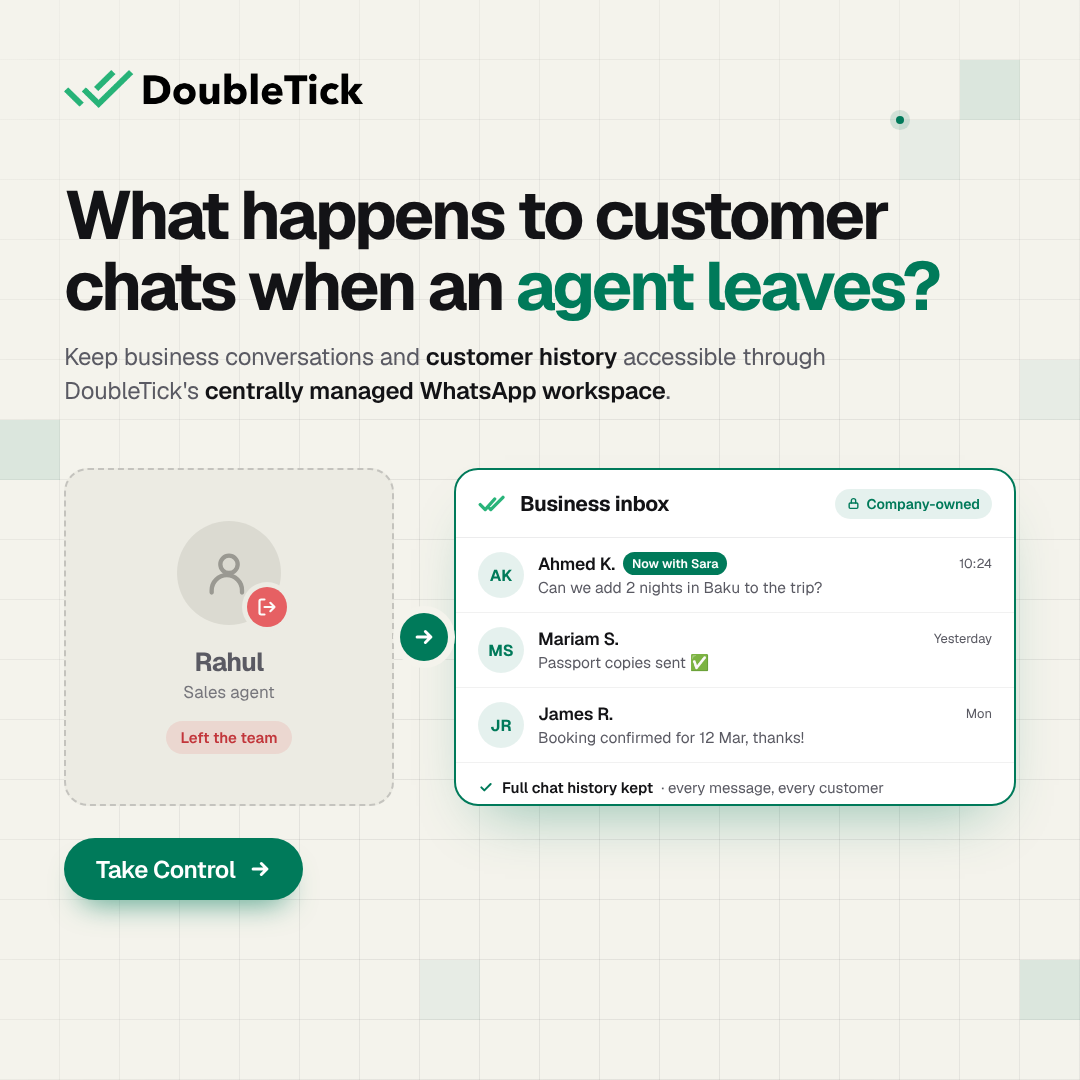
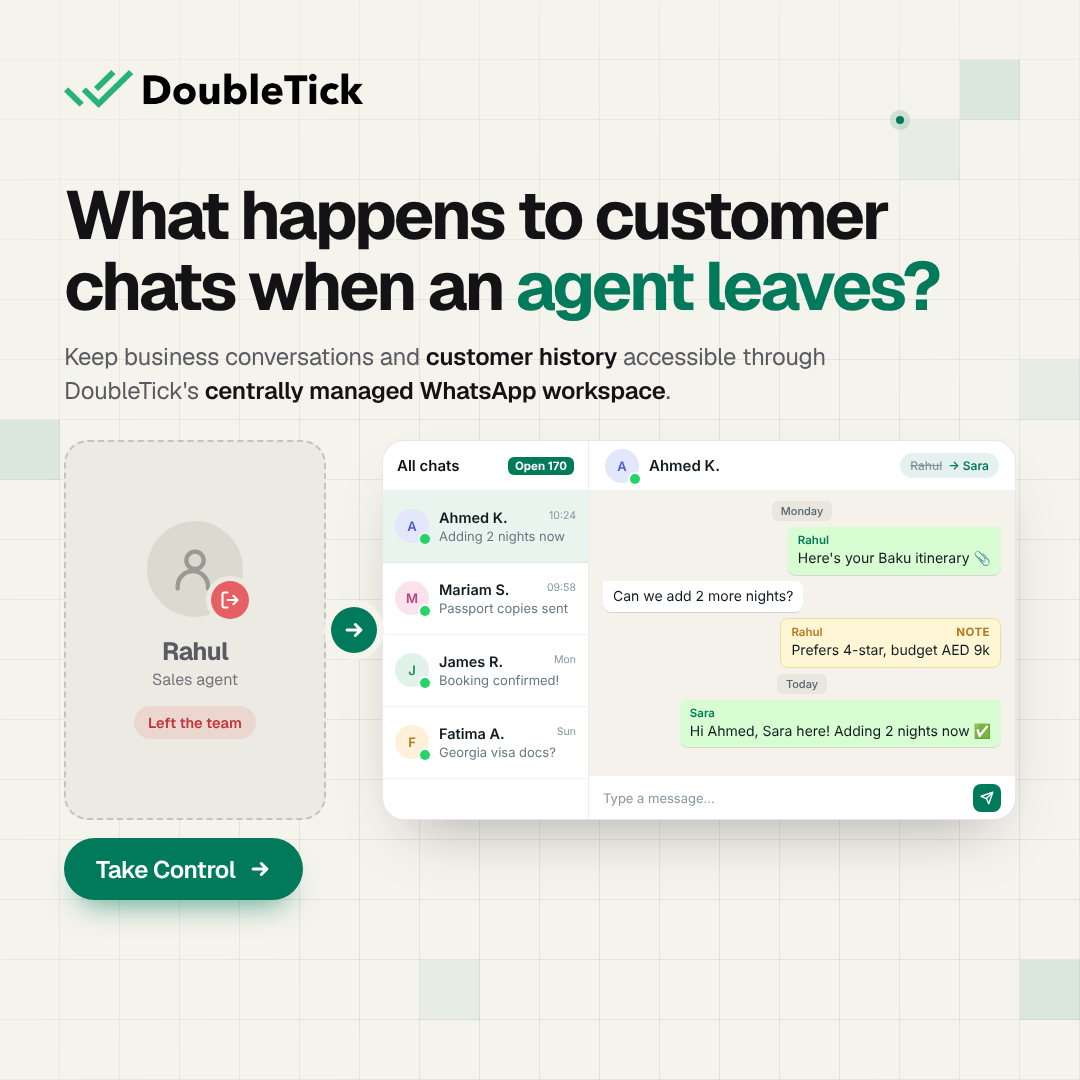
feat: simplified DoubleTick inbox UI in agent-leaves ad
Claude-Session: https://claude.ai/code/session_01U68wzeZAut9FRgfZMxNXRM

Changed region(s): [[0.3056, 0.3972, 0.9472, 0.7944], [0.1528, 0.5194, 0.275, 0.7028]]

diff --git a/ads/doubletick-agent-leaves/index.html b/ads/doubletick-agent-leaves/index.html
@@ -47,31 +47,48 @@
   .sub b { color: var(--ink); font-weight: 600; }
 
   /* ---------- departing agent ---------- */
-  .agent { position: absolute; left: 64px; top: 468px; width: 330px; height: 338px; border-radius: 24px; background: #ECEBE3; border: 2px dashed rgba(19,19,22,0.18); display: flex; flex-direction: column; align-items: center; justify-content: center; text-align: center; }
-  .avatar { position: relative; width: 104px; height: 104px; border-radius: 50%; background: #D9D8CF; display: grid; place-items: center; opacity: 0.85; }
-  .exit { position: absolute; right: -6px; bottom: -2px; width: 40px; height: 40px; border-radius: 50%; background: #E5484D; display: grid; place-items: center; box-shadow: 0 0 0 5px #ECEBE3; }
-  .agent .nm { margin-top: 20px; font-weight: 700; font-size: 26px; letter-spacing: -0.03em; color: var(--ink-2); }
-  .agent .role { margin-top: 2px; font-size: 17px; color: var(--ink-2); opacity: 0.8; }
-  .left-chip { margin-top: 18px; font-size: 15px; font-weight: 600; color: #C2363B; background: rgba(229,72,77,0.12); padding: 7px 14px; border-radius: 999px; }
+  .agent { position: absolute; left: 64px; top: 440px; width: 262px; height: 380px; border-radius: 24px; background: #ECEBE3; border: 2px dashed rgba(19,19,22,0.18); display: flex; flex-direction: column; align-items: center; justify-content: center; text-align: center; }
+  .avatar { position: relative; width: 96px; height: 96px; border-radius: 50%; background: #D9D8CF; display: grid; place-items: center; opacity: 0.85; }
+  .exit { position: absolute; right: -6px; bottom: -2px; width: 38px; height: 38px; border-radius: 50%; background: #E5484D; display: grid; place-items: center; box-shadow: 0 0 0 5px #ECEBE3; }
+  .agent .nm { margin-top: 18px; font-weight: 700; font-size: 25px; letter-spacing: -0.03em; color: var(--ink-2); }
+  .agent .role { margin-top: 2px; font-size: 16px; color: var(--ink-2); opacity: 0.8; }
+  .left-chip { margin-top: 16px; font-size: 14.5px; font-weight: 600; color: #C2363B; background: rgba(229,72,77,0.12); padding: 7px 14px; border-radius: 999px; }
 
   /* ---------- arrow ---------- */
-  .arrow { position: absolute; left: 400px; top: 613px; width: 48px; height: 48px; border-radius: 50%; background: var(--green); display: grid; place-items: center; box-shadow: 0 0 0 7px var(--bg); z-index: 2; }
+  .arrow { position: absolute; left: 331px; top: 607px; width: 46px; height: 46px; border-radius: 50%; background: var(--green); display: grid; place-items: center; box-shadow: 0 0 0 7px var(--bg); z-index: 2; }
 
-  /* ---------- business inbox ---------- */
-  .inbox { position: absolute; left: 454px; top: 468px; width: 562px; height: 338px; border-radius: 24px; background: var(--card); border: 2px solid var(--green); overflow: hidden; box-shadow: 0 30px 60px -30px rgba(0,122,90,0.45); }
-  .inbox-head { display: flex; align-items: center; gap: 12px; height: 68px; padding: 0 22px; border-bottom: 1px solid rgba(19,19,22,0.08); }
-  .inbox-head .ttl { font-weight: 700; font-size: 21px; letter-spacing: -0.02em; }
-  .owned { margin-left: auto; display: flex; align-items: center; gap: 6px; font-size: 14px; font-weight: 600; color: var(--green); background: var(--green-tint); padding: 6px 12px; border-radius: 999px; }
-  .chat-row { display: flex; align-items: center; gap: 14px; padding: 14px 22px; border-bottom: 1px solid rgba(19,19,22,0.06); }
-  .ini { flex: none; width: 46px; height: 46px; border-radius: 50%; display: grid; place-items: center; font-weight: 700; font-size: 16px; color: var(--green); background: var(--green-tint); }
-  .cr-body { flex: 1; min-width: 0; }
-  .cr-top { display: flex; align-items: center; gap: 8px; }
-  .cr-top .n { font-weight: 600; font-size: 17.5px; letter-spacing: -0.01em; }
-  .cr-top .tm { margin-left: auto; font-size: 13px; color: var(--ink-2); }
-  .cr-msg { margin-top: 2px; font-size: 15.5px; color: var(--ink-2); white-space: nowrap; overflow: hidden; text-overflow: ellipsis; }
-  .with { font-size: 12.5px; font-weight: 600; color: #fff; background: var(--green); padding: 3px 9px; border-radius: 999px; }
-  .inbox-foot { display: flex; align-items: center; gap: 8px; padding: 0 22px; height: 48px; font-size: 15px; color: var(--ink-2); }
-  .inbox-foot b { color: var(--ink); font-weight: 600; }
+  /* ---------- DoubleTick inbox (simplified) ---------- */
+  .inbox { position: absolute; left: 382px; top: 440px; width: 634px; height: 380px; border-radius: 22px; background: var(--card); border: 1.5px solid rgba(19,19,22,0.10); overflow: hidden; display: flex; box-shadow: 0 30px 60px -30px rgba(19,19,22,0.35); font-family: "Inter", "Segoe UI", Helvetica, Arial, sans-serif; }
+  .list { width: 206px; flex: none; border-right: 1px solid rgba(19,19,22,0.08); }
+  .list-head { height: 50px; display: flex; align-items: center; justify-content: space-between; padding: 0 14px; font-weight: 600; font-size: 15px; border-bottom: 1px solid rgba(19,19,22,0.07); }
+  .count { font-size: 11.5px; font-weight: 700; color: #fff; background: var(--green); padding: 2px 7px; border-radius: 6px; }
+  .row { display: flex; gap: 10px; padding: 18px 12px; border-bottom: 1px solid rgba(19,19,22,0.05); }
+  .row.on { background: #EAF4EF; }
+  .av { position: relative; flex: none; width: 34px; height: 34px; border-radius: 50%; display: grid; place-items: center; font-weight: 600; font-size: 13px; }
+  .av::after { content: ""; position: absolute; right: -1px; bottom: -1px; width: 10px; height: 10px; border-radius: 50%; background: #25D366; box-shadow: 0 0 0 2px #fff; }
+  .row.on .av::after { box-shadow: 0 0 0 2px #EAF4EF; }
+  .a1 { background: #E3E7FB; color: #4F5BD5; } .a2 { background: #FBE3EE; color: #C2407A; } .a3 { background: #E0F2E9; color: #1E8A5A; } .a4 { background: #FFF0D9; color: #B7791F; }
+  .rb { min-width: 0; flex: 1; }
+  .rt { display: flex; justify-content: space-between; font-size: 14.5px; font-weight: 600; color: #111B21; }
+  .rt span:last-child { font-size: 10.5px; font-weight: 400; color: #8696A0; }
+  .rm { margin-top: 2px; font-size: 13px; color: #667781; white-space: nowrap; overflow: hidden; text-overflow: ellipsis; }
+
+  .conv { flex: 1; display: flex; flex-direction: column; min-width: 0; }
+  .conv-head { height: 50px; flex: none; display: flex; align-items: center; gap: 10px; padding: 0 16px; border-bottom: 1px solid rgba(19,19,22,0.07); }
+  .conv-head .n { font-weight: 600; font-size: 15px; color: #111B21; }
+  .assign { margin-left: auto; display: flex; align-items: center; gap: 6px; font-size: 12px; font-weight: 600; color: var(--green); background: var(--green-tint); padding: 5px 10px; border-radius: 999px; }
+  .assign s { color: #8696A0; font-weight: 500; }
+  .thread { flex: 1; background: #F5F2EB; padding: 10px 14px; display: flex; flex-direction: column; gap: 6px; }
+  .composer { flex: none; height: 44px; display: flex; align-items: center; gap: 10px; padding: 0 14px; border-top: 1px solid rgba(19,19,22,0.07); font-size: 13px; color: #8696A0; }
+  .composer .send { margin-left: auto; width: 28px; height: 28px; border-radius: 8px; background: var(--green); display: grid; place-items: center; }
+  .day { align-self: center; font-size: 11px; font-weight: 500; color: #54656F; background: #E9E6DE; padding: 3px 9px; border-radius: 6px; }
+  .m { max-width: 86%; padding: 6px 10px 7px; border-radius: 8px; font-size: 14px; line-height: 1.32; color: #111B21; box-shadow: 0 1px 0.5px rgba(11,20,26,0.12); }
+  .m .who { display: block; font-size: 11.5px; font-weight: 600; color: var(--green); margin-bottom: 1px; }
+  .m.in { align-self: flex-start; background: #fff; border-top-left-radius: 0; }
+  .m.out { align-self: flex-end; background: #D9FDD3; border-top-right-radius: 0; }
+  .m.note { align-self: flex-end; background: #FFF6D6; border: 1px solid #F2DE9B; box-shadow: none; }
+  .m.note .who { color: #B7791F; }
+  .m.note .who em { font-style: normal; float: right; margin-left: 14px; font-weight: 700; letter-spacing: 0.04em; }
 
   /* ---------- footer ---------- */
   .footer { position: absolute; left: 64px; bottom: 180px; display: flex; align-items: center; }
@@ -110,35 +127,31 @@
 
   <div class="arrow"><svg width="22" height="22" viewBox="0 0 16 16" fill="none"><path d="M3 8h10M9 4l4 4-4 4" stroke="#fff" stroke-width="2.2" stroke-linecap="round" stroke-linejoin="round"/></svg></div>
 
-  <!-- business-owned inbox -->
+  <!-- business-owned DoubleTick inbox -->
   <div class="inbox">
-    <div class="inbox-head">
-      <svg width="30" height="20" viewBox="0 0 26 18" fill="none"><path d="M1.5 9.5l4.5 4.5L14.5 4.5" stroke="#29B47A" stroke-width="3" stroke-linecap="round" stroke-linejoin="round"/><path d="M10 13l1 1L22 3" stroke="#29B47A" stroke-width="3" stroke-linecap="round" stroke-linejoin="round"/></svg>
-      <span class="ttl">Business inbox</span>
-      <span class="owned"><svg width="13" height="13" viewBox="0 0 24 24" fill="none" stroke="#007A5A" stroke-width="2.6" stroke-linecap="round" stroke-linejoin="round"><rect x="4" y="11" width="16" height="10" rx="2"/><path d="M8 11V7a4 4 0 0 1 8 0v4"/></svg>Company-owned</span>
+    <div class="list">
+      <div class="list-head">All chats <span class="count">Open 170</span></div>
+      <div class="row on"><div class="av a1">A</div><div class="rb"><div class="rt"><span>Ahmed K.</span><span>10:24</span></div><div class="rm">Adding 2 nights now</div></div></div>
+      <div class="row"><div class="av a2">M</div><div class="rb"><div class="rt"><span>Mariam S.</span><span>09:58</span></div><div class="rm">Passport copies sent</div></div></div>
+      <div class="row"><div class="av a3">J</div><div class="rb"><div class="rt"><span>James R.</span><span>Mon</span></div><div class="rm">Booking confirmed!</div></div></div>
+      <div class="row"><div class="av a4">F</div><div class="rb"><div class="rt"><span>Fatima A.</span><span>Sun</span></div><div class="rm">Georgia visa docs?</div></div></div>
     </div>
-    <div class="chat-row">
-      <div class="ini">AK</div>
-      <div class="cr-body">
-        <div class="cr-top"><span class="n">Ahmed K.</span><span class="with">Now with Sara</span><span class="tm">10:24</span></div>
-        <div class="cr-msg">Can we add 2 nights in Baku to the trip?</div>
+    <div class="conv">
+      <div class="conv-head">
+        <div class="av a1">A</div>
+        <span class="n">Ahmed K.</span>
+        <span class="assign"><s>Rahul</s> → Sara</span>
       </div>
-    </div>
-    <div class="chat-row">
-      <div class="ini">MS</div>
-      <div class="cr-body">
-        <div class="cr-top"><span class="n">Mariam S.</span><span class="tm">Yesterday</span></div>
-        <div class="cr-msg">Passport copies sent ✅</div>
+      <div class="thread">
+        <span class="day">Monday</span>
+        <div class="m out"><span class="who">Rahul</span>Here's your Baku itinerary 📎</div>
+        <div class="m in">Can we add 2 more nights?</div>
+        <div class="m note"><span class="who">Rahul <em>NOTE</em></span>Prefers 4-star, budget AED 9k</div>
+        <span class="day">Today</span>
+        <div class="m out"><span class="who">Sara</span>Hi Ahmed, Sara here! Adding 2 nights now ✅</div>
       </div>
+      <div class="composer">Type a message…<span class="send"><svg width="14" height="14" viewBox="0 0 24 24" fill="none" stroke="#fff" stroke-width="2.4" stroke-linecap="round" stroke-linejoin="round"><path d="M22 2L11 13M22 2l-7 20-4-9-9-4 20-7z"/></svg></span></div>
     </div>
-    <div class="chat-row">
-      <div class="ini">JR</div>
-      <div class="cr-body">
-        <div class="cr-top"><span class="n">James R.</span><span class="tm">Mon</span></div>
-        <div class="cr-msg">Booking confirmed for 12 Mar, thanks!</div>
-      </div>
-    </div>
-    <div class="inbox-foot"><svg width="16" height="16" viewBox="0 0 24 24" fill="none" stroke="#007A5A" stroke-width="3" stroke-linecap="round" stroke-linejoin="round"><path d="M5 12.5l4.5 4.5L19 7.5"/></svg><b>Full chat history kept</b> · every message, every customer</div>
   </div>
 
   <!-- footer -->
